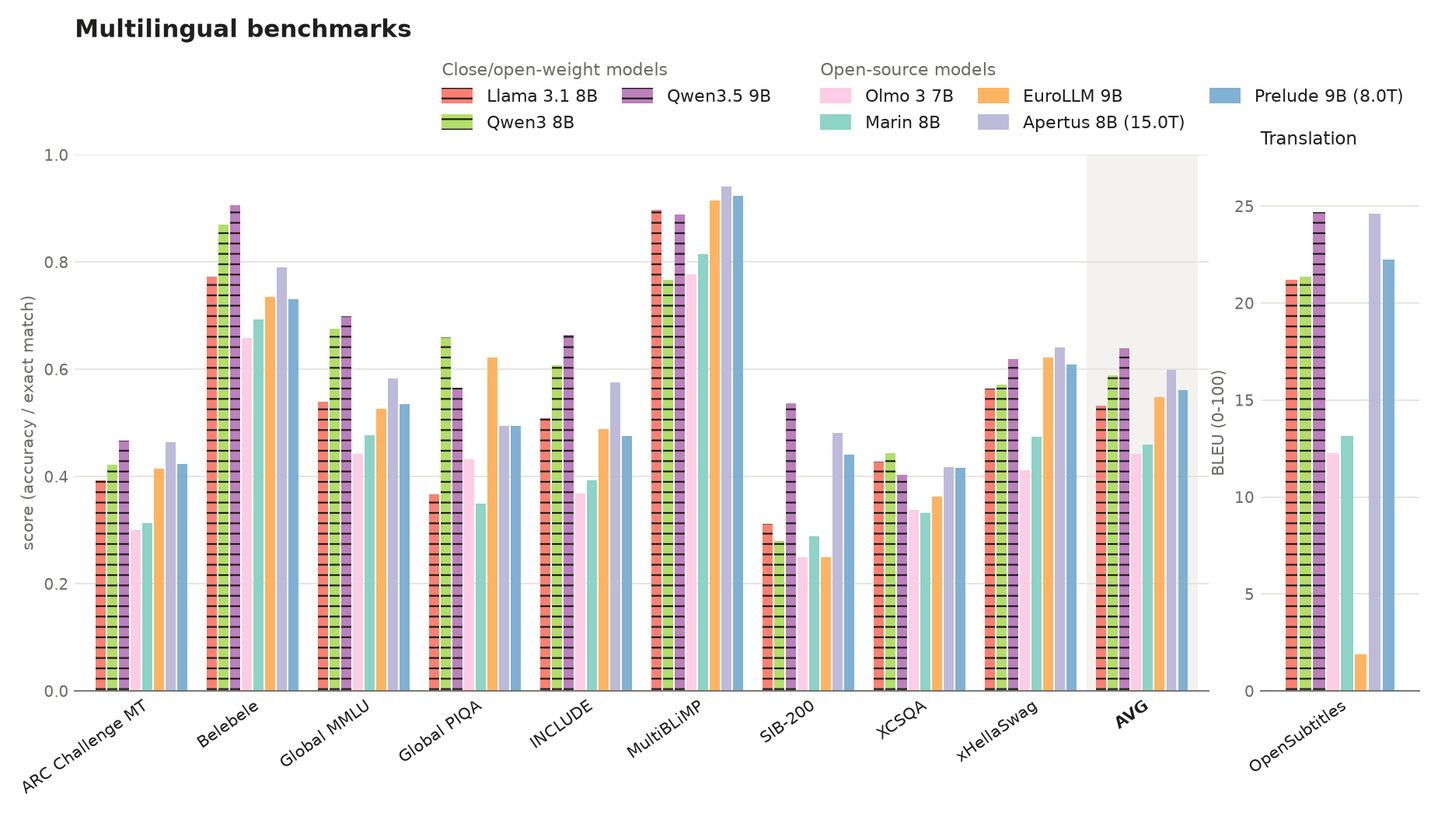
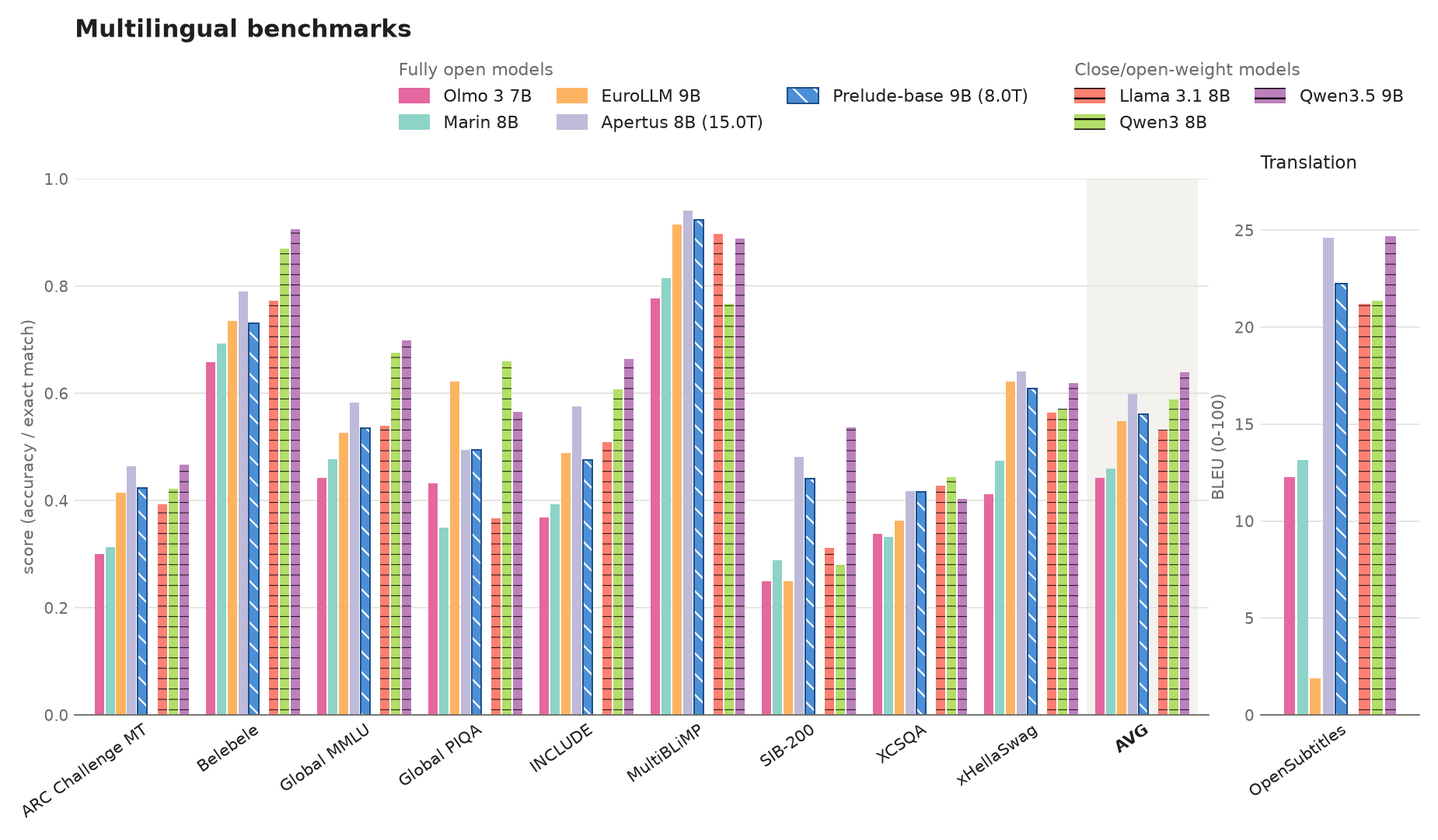
plot edit

diff --git a/prelude-evaluations-model-card/plot_results.py b/prelude-evaluations-model-card/plot_results.py
@@ -24,8 +24,9 @@ Sources (HF datasets):
                     subtask_tree, so e.g. the bigbench subtasks count once.
   Multilingual      multilingual_scores.parquet, OpenEuroLLM target languages
                     only, EXCLUDE_BENCHMARKS dropped.
-  Norwegian         noreval_scores.parquet (only Prelude + 2T anneal so far).
-                    Prompt variants (_p0.._p4) are averaged per task.
+  Norwegian         noreval_scores.parquet (LTG NorEval dashboard results),
+                    0-shot, each task's main metric (prompt variants already
+                    aggregated upstream).
 Tasks are kept only when every model of the category has them. Translation
 metrics (BLEU / chrF, 0-100) go to a separate panel and are left out of AVG.
 
@@ -172,7 +173,6 @@ TRANSLATION_METRICS = ["chrf", "chrf++", "bleu"]   # side panel, not in AVG
 # series id -> name. Rows / bars: open-weights, then fully open models (each by
 # AVG, weakest first), then Prelude.
 ENG_DEU_MODELS = {
-    "prelude": "Prelude 9B",
     "prelude_anneal2t": "Prelude 9B + 2T anneal",
     "eurollm_9B_2512": "EuroLLM 9B 2512",
     "apertus_8b": "Apertus 8B",
@@ -192,20 +192,31 @@ MULTILINGUAL_MODELS = {
     "Qwen/Qwen3.5-9B-Base": "Qwen3.5 9B",
     "meta-llama/Llama-3.1-8B": "Llama 3.1 8B",
 }
-NORWEGIAN_MODELS = {"prelude_anneal2t": "Prelude 9B + 2T anneal"}
+# NorEval covers ~80 models; the baselines are picked automatically as those
+# also used for English / German / Multilingual (see norwegian_models).
+NOREVAL_PRELUDE = {"openeurollm/prelude-base": "Prelude 9B + 2T anneal"}
+NOREVAL_SHOTS = 0
+# Shown names where they differ from the internal one (both Prelude rows are
+# "Prelude-base 9B", told apart by the tokens in the label).
+DISPLAY = {"Prelude 9B": "Prelude-base 9B",
+           "Prelude 9B + 2T anneal": "Prelude-base 9B"}
+# NorEval main metrics on a 0-1 scale; BLEU only for the translation tasks.
+# Summarisation / rewriting / truthfulqa-gen (ROUGE-L, BLEU) are dropped.
+NOREVAL_METRICS = ["acc", "f1", "em_first", "errant_f05"]
 
 # One colour per model across all plots (models never shown together share
 # one). Fill encodes openness: solid = fully open (weights + data + code),
 # black horizontal hatch over the fill = open weights only. Every Prelude
-# variant is the same blue; the anneal has a white '\\' hatch.
-# All colours from Set3; its blue is reserved for Prelude.
-PRELUDE_BLUE = "#80b1d3"
-OPEN, WEIGHTS, ANNEAL = "fully open", "open weights", "anneal"
+# variant is the same blue; the 8T (pre-anneal) one has a white '\\' hatch.
+# Baselines use Set3 colours (its blue left unused); Prelude a clearer blue.
+PRELUDE_BLUE = "#4c8fd6"
+PRELUDE_EDGE = "#1d4f8c"   # darker shade of PRELUDE_BLUE for the outline
+OPEN, WEIGHTS, INTERMEDIATE = "fully open", "open weights", "intermediate"
 STYLES = {   # name -> (colour, style)
-    "Prelude 9B": (PRELUDE_BLUE, OPEN),
-    "Prelude 9B + 2T anneal": (PRELUDE_BLUE, ANNEAL),
+    "Prelude 9B": (PRELUDE_BLUE, INTERMEDIATE),      # 8T, before the anneal
+    "Prelude 9B + 2T anneal": (PRELUDE_BLUE, OPEN),  # 10T, final
     "Apertus 8B": ("#bebada", OPEN),
-    "Olmo 3 7B": ("#fccde5", OPEN),
+    "Olmo 3 7B": ("#e5679f", OPEN),   # Olmo brand pink
     "Marin 8B": ("#8dd3c7", OPEN),
     "EuroLLM 9B": ("#fdb462", OPEN),   # Apache 2.0; counted as open (data not released)
     "EuroLLM 9B 2512": ("#fdb462", OPEN),
@@ -279,7 +290,8 @@ def finish(df: pd.DataFrame, models: dict[str, str]) -> pd.DataFrame:
     tasks every model has."""
     df = latest(df[df["series"].isin(models)])
     tok = df.groupby("series")["tokens"].first()
-    label = {s: models[s] + (f" ({tok[s] / 1e12:.1f}T)" if pd.notna(tok.get(s))
+    label = {s: DISPLAY.get(models[s], models[s])
+             + (f" ({tok[s] / 1e12:.1f}T)" if pd.notna(tok.get(s))
                              else "") for s in df["series"].unique()}
     df = df.assign(label=df["series"].map(label), name=df["series"].map(models),
                    order=df["series"].map(list(models).index))
@@ -334,12 +346,39 @@ def load_multilingual() -> pd.DataFrame:
     return finish(pd.concat([main, trans]), MULTILINGUAL_MODELS)
 
 
+def norm_name(name: str) -> str:
+    """Comparable model name: "OLMo3 7B" and "Olmo 3 7B" -> "olmo37b";
+    HF ids lose the org and a -Base / -pt suffix."""
+    name = re.sub(r"[-_](base|pt)$", "", name.split("/")[-1], flags=re.I)
+    return re.sub(r"[^a-z0-9]", "", name.lower())
+
+
+def norwegian_models(df: pd.DataFrame) -> dict[str, str]:
+    """NorEval model id -> our model name, for Prelude and every baseline of
+    the other categories that NorEval has. The HF id is matched before the
+    display name, so EuroLLM-9B-2512 maps to "EuroLLM 9B 2512" rather than
+    the original "EuroLLM 9B"."""
+    ours = [n for n in (*ENG_DEU_MODELS.values(), *MULTILINGUAL_MODELS.values())
+            if not n.startswith("Prelude")]
+    by_norm = {norm_name(n): n for n in ours}
+    models = dict(NOREVAL_PRELUDE)
+    for model, display in df[["model", "model_display_name"]].drop_duplicates().values:
+        for key in (norm_name(model), norm_name(display)):
+            if key in by_norm and model not in models:
+                models[model] = by_norm[key]
+    order = {n: i for i, n in enumerate(dict.fromkeys(
+        [*NOREVAL_PRELUDE.values(), *ours]))}
+    return dict(sorted(models.items(), key=lambda kv: order[kv[1]]))
+
+
 def load_norwegian() -> pd.DataFrame:
     df = pd.read_parquet(hf_hub_download(
         REPO_ID, "noreval_scores.parquet", repo_type="dataset"))
-    df = df[df["metric_filter"].fillna("none") == "none"]
-    # summarisation / truthfulqa-gen only report BLEU/ROUGE variants: dropped
-    main = pick_metric(df, METRIC_PREFERENCE).assign(translation=False)
+    models = norwegian_models(df)
+    print("NorEval baselines:", ", ".join(f"{m} -> {n}" for m, n in models.items()))
+    df = df[(df["metric_filter"].fillna("none") == "none")
+            & (df["num_fewshot"] == NOREVAL_SHOTS)]
+    main = pick_metric(df, NOREVAL_METRICS).assign(translation=False)
     trans = pick_metric(df[~df["task"].isin(main["task"])],
                         TRANSLATION_METRICS).assign(translation=True)
     trans = trans[trans["task"].str.contains("tatoeba|translation")]
@@ -348,8 +387,8 @@ def load_norwegian() -> pd.DataFrame:
                    checkpoint=df["step"].map(lambda s: None if pd.isna(s)
                                              else str(int(s))),
                    tokens=df["tokens_trained"],
-                   group=df["task"].str.replace(r"_p\d+$", "", regex=True))
-    return finish(df, NORWEGIAN_MODELS)
+                   group=df["task"])
+    return finish(df, models)
 
 
 # --- table and plot ----------------------------------------------------------
@@ -361,26 +400,32 @@ def scores(df: pd.DataFrame) -> tuple[pd.DataFrame, pd.DataFrame | None]:
         return d.groupby(["label", "group"])["score"].mean().unstack()
     acc = table(df[~df["translation"]])
     acc["AVG"] = acc.mean(axis=1)
-    # open-weights models, then fully open ones, each by AVG weakest first;
-    # Prelude last in model order
+    # fully open models by AVG (weakest first), then Prelude, then -- after a
+    # gap in the plots -- the open-weight models, also by AVG
     first = df.drop_duplicates("label").set_index("label")
     style = first["name"].map(lambda n: STYLES[n][1])
     prelude = first.index.str.startswith("Prelude")
     def by_avg(mask):
         return list(acc.loc[first.index[mask], "AVG"].sort_values().index)
-    labels = (by_avg(~prelude & (style == WEIGHTS))
-              + by_avg(~prelude & (style != WEIGHTS))
-              + list(first.loc[prelude, "order"].sort_values().index))
+    labels = (by_avg(~prelude & (style != WEIGHTS))
+              + list(first.loc[prelude, "order"].sort_values().index)
+              + by_avg(~prelude & (style == WEIGHTS)))
     acc = acc.reindex(labels)
     tr = df[df["translation"]]
     return acc, (table(tr).reindex(labels) if not tr.empty else None)
 
 
-def to_markdown(df: pd.DataFrame) -> str:
-    """Two decimals (one for 0-100 scores); best value of each column bold."""
+def to_markdown(df: pd.DataFrame, names: dict[str, str]) -> str:
+    """Two decimals (one for 0-100 scores); best value of each column bold.
+    A heading row opens each openness group (fully open / open weights)."""
     lines = ["| model | " + " | ".join(df.columns) + " |",
              "|---|" + "---:|" * len(df.columns)]
+    current = None
     for label, row in df.iterrows():
+        group = GROUP_TITLES[STYLES[names[label]][1] == WEIGHTS]
+        if group != current:
+            lines.append(f"| ***{group}*** |" + " |" * len(df.columns))
+            current = group
         cells = []
         for col, v in row.items():
             if pd.isna(v):
@@ -396,23 +441,31 @@ def to_markdown(df: pd.DataFrame) -> str:
 
 
 INK, MUTED, GRID, AVG_BAND = "#1f1f1e", "#6b6a64", "#e4e3dd", "#f3f2ee"
+GROUP_TITLES = {False: "Fully open models", True: "Close/open-weight models"}
+GROUP_GAP = 0.8          # extra space between the two groups, in bar widths
 LEGEND_BAND_IN = 1.0     # inches above the axes for the legends (title above)
 
 
 def bars(ax, table: pd.DataFrame, names: dict[str, str]):
-    """Grouped bars, one group per column; a hairline gap between bars. The
-    AVG group sits on a light band."""
-    n = len(table)
-    slot = 0.84 / n
+    """Grouped bars, one group per column; a hairline gap between bars, a wider
+    one between fully open and open-weight models. AVG sits on a light band."""
+    weights = [STYLES[names[l]][1] == WEIGHTS for l in table.index]
+    gap = GROUP_GAP if any(weights) and not all(weights) else 0
+    slot = 0.86 / (len(table) + gap)
     for i, (label, row) in enumerate(table.iterrows()):
-        xs = [j - 0.42 + slot * (i + 0.5) for j in range(len(table.columns))]
+        offset = slot * (i + 0.5 + (gap if weights[i] else 0))
+        xs = [j - 0.43 + offset for j in range(len(table.columns))]
         color, style = STYLES[names[label]]
         if style == WEIGHTS:
-            kw = dict(facecolor=color, edgecolor=INK, hatch="--", linewidth=0)
-        elif style == ANNEAL:   # hatch lines take the edge colour: white
+            kw = dict(facecolor=color, edgecolor="black", hatch="--", linewidth=0,
+                      hatch_linewidth=0.4)
+        elif style == INTERMEDIATE:
             kw = dict(facecolor=color, edgecolor="white", hatch="\\\\", linewidth=0)
         else:
             kw = dict(facecolor=color, linewidth=0)
+        if names[label].startswith("Prelude"):   # outline only our model
+            kw.update(edgecolor=PRELUDE_EDGE, linewidth=0.9,
+                      hatchcolor=kw.get("edgecolor", "white"))
         ax.bar(xs, row, width=slot * 0.86, label=label, zorder=2, **kw)
     if "AVG" in table.columns:
         j = list(table.columns).index("AVG")
@@ -436,16 +489,24 @@ def bars(ax, table: pd.DataFrame, names: dict[str, str]):
 
 def legend_boxes(fig, ax, names: dict[str, str], fontsize: float = 10):
     """Two legend boxes in the band above the axes, right-aligned with them,
-    two rows each: open-weight models | open-source models (Prelude included).
+    two rows each, in bar order: fully open models (Prelude included) |
+    open-weight models.
     Placed right to left in figure coordinates; an empty box is skipped.
     Returns the top of the legends in figure coordinates."""
     handles, labels = ax.get_legend_handles_labels()
     weights = [STYLES[names[l]][1] == WEIGHTS for l in labels]
-    boxes = [("Close/open-weight models", [i for i, w in enumerate(weights) if w]),
-             ("Open-source models", [i for i, w in enumerate(weights) if not w])]
+    boxes = [(GROUP_TITLES[flag], [i for i, w in enumerate(weights) if w == flag])
+             for flag in (False, True)]
     renderer = fig.canvas.get_renderer()
     pos = ax.get_position()
-    right, top = fig.axes[-1].get_position().x1, pos.y1 + 0.01
+    right, top = fig.axes[-1].get_position().x1, pos.y1
+    for a in fig.axes:          # clear panel titles such as "Translation"
+        if a.get_title(loc="left"):
+            top = max(top, a.title.get_window_extent(renderer).transformed(
+                fig.transFigure.inverted()).y1 if a.get_title() else
+                a._left_title.get_window_extent(renderer).transformed(
+                    fig.transFigure.inverted()).y1)
+    top += 0.01
     legend_top = top
     for title, idx in reversed([(t, idx) for t, idx in boxes if idx]):
         leg = fig.legend([handles[i] for i in idx], [labels[i] for i in idx],
@@ -497,17 +558,18 @@ def plot(name: str, df: pd.DataFrame, acc: pd.DataFrame,
 
 README_INTRO = """# Prelude evaluations
 
-Compares OpenEuroLLM Prelude 9B with open-source and open-weight baselines of
-similar size on English, Multilingual, German and Norwegian benchmarks; run it
-with `uv run plot_results.py`. The script downloads the scores from the HF
-datasets `openeurollm/prelude-base-eval-scores` and `ellamind/eval-scores-ref`,
-takes each model's released model (else its latest checkpoint), keeps only the
-tasks every model of a category has, and averages tasks within each benchmark
-group and then over groups (AVG, which excludes BLEU/chrF translation scores).
-It writes one bar plot per category to `figures/` and regenerates the Results
+Compares OpenEuroLLM Prelude 9B with fully open models (open weights and
+training data) and open-weight models of similar size on English,
+Multilingual, German and Norwegian benchmarks; run it with
+`uv run plot_results.py`. The script downloads the scores from the HF datasets
+`openeurollm/prelude-base-eval-scores` and `ellamind/eval-scores-ref`, takes
+each model's released model (else its latest checkpoint), keeps only the tasks
+every model of a category has, and averages tasks within each benchmark group
+and then over groups (AVG, which excludes BLEU/chrF translation scores). It
+writes one bar plot per category to `figures/` and regenerates the Results
 section below, where the best value of each column is bold and, in the plots,
-solid bars are open-source models and horizontally hatched bars open-weight
-models.
+fully open models (solid bars, Prelude last) are followed by open-weight
+models (horizontally hatched bars).
 
 """
 
@@ -549,7 +611,8 @@ def main():
         if trans is not None:
             table = table.join(trans)
         table["AVG"] = acc["AVG"]           # AVG last; excludes translation
-        md = to_markdown(table)
+        names = df.drop_duplicates("label").set_index("label")["name"].to_dict()
+        md = to_markdown(table, names)
         print(md)
         print()
         figure = f"figures/plot_results_{name.lower()}.png"

diff --git a/prelude-evaluations-model-card/README.md b/prelude-evaluations-model-card/README.md
@@ -1,20 +1,20 @@
 # Prelude evaluations
 
-Compares OpenEuroLLM Prelude 9B with open-source and open-weight baselines of
-similar size on English, Multilingual, German and Norwegian benchmarks; run it
-with `uv run plot_results.py`. The script downloads the scores from the HF
-datasets `openeurollm/prelude-base-eval-scores` and `ellamind/eval-scores-ref`,
-takes each model's released model (else its latest checkpoint), keeps only the
-tasks every model of a category has, and averages tasks within each benchmark
-group and then over groups (AVG, which excludes BLEU/chrF translation scores).
-It writes one bar plot per category to `figures/` and regenerates the Results
+Compares OpenEuroLLM Prelude 9B with fully open models (open weights and
+training data) and open-weight models of similar size on English,
+Multilingual, German and Norwegian benchmarks; run it with
+`uv run plot_results.py`. The script downloads the scores from the HF datasets
+`openeurollm/prelude-base-eval-scores` and `ellamind/eval-scores-ref`, takes
+each model's released model (else its latest checkpoint), keeps only the tasks
+every model of a category has, and averages tasks within each benchmark group
+and then over groups (AVG, which excludes BLEU/chrF translation scores). It
+writes one bar plot per category to `figures/` and regenerates the Results
 section below, where the best value of each column is bold and, in the plots,
-solid bars are open-source models and horizontally hatched bars open-weight
-models.
+fully open models (solid bars, Prelude last) are followed by open-weight
+models (horizontally hatched bars).
 
 # Results
 
-Important note: results from multilingual are not done on the final checkpoint yet as those evaluations are still pending, as such we expect performance to be improved on multilingual group.
 Automatically generated by `plot_results.py` on 2026-11-06; do not edit below this line.
 
 ## English
@@ -23,15 +23,16 @@ Automatically generated by `plot_results.py` on 2026-11-06; do not edit below th
 
 | model | AGIEval MC | Basic Skills RC | CoQA Gen | DROP Gen | DeepMind Math Gen | GSM Symbolic | Gen | Held-out | Jeopardy Gen | MMLU Humanities MC | MMLU Other MC | MMLU Pro MC | MMLU STEM MC | MMLU Social Sciences MC | Math | Minerva Math Gen | NaturalQs Gen | Non-STEM QA MC | SQuAD Gen | STEM QA MC | AVG |
 |---|---:|---:|---:|---:|---:|---:|---:|---:|---:|---:|---:|---:|---:|---:|---:|---:|---:|---:|---:|---:|---:|
-| Llama 3.1 8B (15.0T) | 0.51 | 0.89 | 0.66 | 0.49 | 0.24 | 0.36 | 0.77 | 0.30 | 0.65 | 0.70 | 0.70 | 0.37 | 0.58 | 0.75 | 0.39 | 0.19 | 0.28 | 0.78 | 0.80 | 0.74 | 0.56 |
-| Qwen3 8B (36.0T) | 0.66 | 0.94 | 0.56 | 0.55 | 0.48 | 0.69 | 0.76 | 0.35 | 0.58 | 0.78 | 0.77 | 0.50 | 0.77 | 0.85 | **0.69** | **0.51** | 0.26 | 0.86 | 0.77 | 0.81 | **0.66** |
-| Qwen3.5 9B | **0.69** | **0.95** | 0.27 | 0.57 | 0.45 | **0.71** | 0.76 | **0.42** | 0.58 | **0.82** | **0.82** | **0.57** | **0.78** | **0.87** | 0.68 | 0.49 | 0.24 | **0.88** | 0.80 | **0.84** | **0.66** |
+| ***Fully open models*** | | | | | | | | | | | | | | | | | | | | | |
 | EuroLLM 9B 2512 (4.0T) | 0.42 | 0.85 | 0.53 | 0.36 | 0.15 | 0.00 | 0.72 | 0.29 | 0.56 | 0.62 | 0.61 | 0.27 | 0.48 | 0.64 | 0.07 | 0.12 | 0.23 | 0.73 | 0.78 | 0.66 | 0.45 |
 | Apertus 8B (15.0T) | 0.48 | 0.87 | 0.72 | 0.31 | 0.19 | 0.27 | 0.76 | 0.29 | 0.64 | 0.69 | 0.68 | 0.35 | 0.54 | 0.74 | 0.31 | 0.13 | 0.27 | 0.76 | 0.81 | 0.72 | 0.53 |
 | Marin 8B | 0.54 | 0.90 | 0.72 | **0.66** | 0.21 | 0.33 | **0.78** | 0.27 | **0.66** | 0.71 | 0.71 | 0.38 | 0.59 | 0.77 | 0.44 | 0.24 | **0.36** | 0.80 | 0.86 | 0.73 | 0.58 |
 | Olmo 3 7B (6.1T) | 0.53 | 0.91 | **0.77** | 0.62 | 0.24 | 0.48 | 0.72 | 0.28 | 0.53 | 0.69 | 0.69 | 0.37 | 0.60 | 0.75 | 0.58 | 0.39 | 0.26 | 0.80 | **0.87** | 0.71 | 0.59 |
-| Prelude 9B (8.0T) | 0.44 | 0.84 | 0.71 | 0.39 | 0.17 | 0.19 | 0.73 | 0.29 | 0.58 | 0.64 | 0.63 | 0.29 | 0.48 | 0.68 | 0.24 | 0.09 | 0.23 | 0.72 | 0.77 | 0.66 | 0.49 |
-| Prelude 9B + 2T anneal (10.0T) | 0.58 | 0.94 | 0.47 | 0.52 | **0.64** | 0.60 | 0.77 | 0.33 | 0.64 | 0.75 | 0.73 | 0.45 | 0.66 | 0.80 | 0.63 | 0.43 | 0.23 | 0.81 | 0.83 | 0.75 | 0.63 |
+| Prelude-base 9B (10.0T) | 0.58 | 0.94 | 0.47 | 0.52 | **0.64** | 0.60 | 0.77 | 0.33 | 0.64 | 0.75 | 0.73 | 0.45 | 0.66 | 0.80 | 0.63 | 0.43 | 0.23 | 0.81 | 0.83 | 0.75 | 0.63 |
+| ***Close/open-weight models*** | | | | | | | | | | | | | | | | | | | | | |
+| Llama 3.1 8B (15.0T) | 0.51 | 0.89 | 0.66 | 0.49 | 0.24 | 0.36 | 0.77 | 0.30 | 0.65 | 0.70 | 0.70 | 0.37 | 0.58 | 0.75 | 0.39 | 0.19 | 0.28 | 0.78 | 0.80 | 0.74 | 0.56 |
+| Qwen3 8B (36.0T) | 0.66 | 0.94 | 0.56 | 0.55 | 0.48 | 0.69 | 0.76 | 0.35 | 0.58 | 0.78 | 0.77 | 0.50 | 0.77 | 0.85 | **0.69** | **0.51** | 0.26 | 0.86 | 0.77 | 0.81 | **0.66** |
+| Qwen3.5 9B | **0.69** | **0.95** | 0.27 | 0.57 | 0.45 | **0.71** | 0.76 | **0.42** | 0.58 | **0.82** | **0.82** | **0.57** | **0.78** | **0.87** | 0.68 | 0.49 | 0.24 | **0.88** | 0.80 | **0.84** | **0.66** |
 
 ## Multilingual
 
@@ -39,14 +40,16 @@ Automatically generated by `plot_results.py` on 2026-11-06; do not edit below th
 
 | model | ARC Challenge MT | Belebele | Global MMLU | Global PIQA | INCLUDE | MultiBLiMP | SIB-200 | XCSQA | xHellaSwag | OpenSubtitles | AVG |
 |---|---:|---:|---:|---:|---:|---:|---:|---:|---:|---:|---:|
-| Llama 3.1 8B | 0.39 | 0.77 | 0.54 | 0.37 | 0.51 | 0.90 | 0.31 | 0.43 | 0.56 | 21.2 | 0.53 |
-| Qwen3 8B | 0.42 | 0.87 | 0.68 | **0.66** | 0.61 | 0.77 | 0.28 | **0.44** | 0.57 | 21.4 | 0.59 |
-| Qwen3.5 9B | **0.47** | **0.91** | **0.70** | 0.56 | **0.66** | 0.89 | **0.54** | 0.40 | 0.62 | **24.7** | **0.64** |
+| ***Fully open models*** | | | | | | | | | | | |
 | Olmo 3 7B | 0.30 | 0.66 | 0.44 | 0.43 | 0.37 | 0.78 | 0.25 | 0.34 | 0.41 | 12.3 | 0.44 |
 | Marin 8B | 0.31 | 0.69 | 0.48 | 0.35 | 0.39 | 0.82 | 0.29 | 0.33 | 0.47 | 13.2 | 0.46 |
 | EuroLLM 9B | 0.41 | 0.74 | 0.53 | 0.62 | 0.49 | 0.92 | 0.25 | 0.36 | 0.62 | 1.9 | 0.55 |
 | Apertus 8B (15.0T) | 0.46 | 0.79 | 0.58 | 0.49 | 0.58 | **0.94** | 0.48 | 0.42 | **0.64** | 24.6 | 0.60 |
-| Prelude 9B (8.0T) | 0.42 | 0.73 | 0.53 | 0.49 | 0.48 | 0.92 | 0.44 | 0.42 | 0.61 | 22.2 | 0.56 |
+| Prelude-base 9B (8.0T) | 0.42 | 0.73 | 0.53 | 0.49 | 0.48 | 0.92 | 0.44 | 0.42 | 0.61 | 22.2 | 0.56 |
+| ***Close/open-weight models*** | | | | | | | | | | | |
+| Llama 3.1 8B | 0.39 | 0.77 | 0.54 | 0.37 | 0.51 | 0.90 | 0.31 | 0.43 | 0.56 | 21.2 | 0.53 |
+| Qwen3 8B | 0.42 | 0.87 | 0.68 | **0.66** | 0.61 | 0.77 | 0.28 | **0.44** | 0.57 | 21.4 | 0.59 |
+| Qwen3.5 9B | **0.47** | **0.91** | **0.70** | 0.56 | **0.66** | 0.89 | **0.54** | 0.40 | 0.62 | **24.7** | **0.64** |
 
 ## German
 
@@ -54,15 +57,16 @@ Automatically generated by `plot_results.py` on 2026-11-06; do not edit below th
 
 | model | AGIEval MC | CoQA Gen | GLP | GLP MC | Gen | Held-out | INCLUDE MC | MMLU Pro MC | MMMLU Non-STEM MC | MMMLU STEM MC | MMMLU Social Sciences MC | Minerva Math Gen | Non-STEM QA MC | STEM QA MC | AVG |
 |---|---:|---:|---:|---:|---:|---:|---:|---:|---:|---:|---:|---:|---:|---:|---:|
-| Llama 3.1 8B (15.0T) | 0.45 | 0.41 | 0.95 | 0.68 | 0.73 | 0.26 | 0.49 | 0.31 | 0.55 | 0.48 | 0.54 | 0.10 | 0.91 | 0.80 | 0.55 |
-| Qwen3 8B (36.0T) | 0.60 | 0.32 | 0.95 | 0.86 | 0.74 | 0.34 | **0.69** | 0.46 | 0.69 | **0.72** | 0.76 | **0.36** | 0.96 | 0.95 | 0.67 |
-| Qwen3.5 9B | **0.65** | 0.22 | **0.96** | **0.87** | 0.80 | **0.38** | 0.68 | **0.51** | **0.72** | **0.72** | **0.79** | 0.35 | **0.98** | **0.96** | **0.69** |
+| ***Fully open models*** | | | | | | | | | | | | | | | |
 | Olmo 3 7B (6.1T) | 0.42 | 0.33 | 0.89 | 0.64 | 0.53 | 0.29 | 0.51 | 0.28 | 0.48 | 0.46 | 0.48 | 0.20 | 0.79 | 0.67 | 0.50 |
 | Marin 8B | 0.45 | 0.38 | 0.91 | 0.66 | 0.62 | 0.27 | 0.49 | 0.29 | 0.51 | 0.48 | 0.50 | 0.12 | 0.89 | 0.78 | 0.53 |
 | EuroLLM 9B 2512 (4.0T) | 0.40 | 0.32 | **0.96** | 0.69 | 0.76 | 0.27 | 0.49 | 0.26 | 0.52 | 0.45 | 0.46 | 0.09 | 0.91 | 0.81 | 0.53 |
 | Apertus 8B (15.0T) | 0.46 | **0.44** | **0.96** | 0.74 | 0.80 | 0.27 | 0.56 | 0.32 | 0.59 | 0.50 | 0.57 | 0.08 | 0.94 | 0.87 | 0.58 |
-| Prelude 9B (8.0T) | 0.41 | 0.43 | 0.95 | 0.63 | 0.73 | 0.25 | 0.53 | 0.26 | 0.53 | 0.44 | 0.48 | 0.06 | 0.90 | 0.80 | 0.53 |
-| Prelude 9B + 2T anneal (10.0T) | 0.56 | 0.36 | **0.96** | 0.79 | **0.81** | 0.30 | 0.59 | 0.41 | 0.64 | 0.62 | 0.67 | 0.21 | 0.96 | 0.93 | 0.63 |
+| Prelude-base 9B (10.0T) | 0.56 | 0.36 | **0.96** | 0.79 | **0.81** | 0.30 | 0.59 | 0.41 | 0.64 | 0.62 | 0.67 | 0.21 | 0.96 | 0.93 | 0.63 |
+| ***Close/open-weight models*** | | | | | | | | | | | | | | | |
+| Llama 3.1 8B (15.0T) | 0.45 | 0.41 | 0.95 | 0.68 | 0.73 | 0.26 | 0.49 | 0.31 | 0.55 | 0.48 | 0.54 | 0.10 | 0.91 | 0.80 | 0.55 |
+| Qwen3 8B (36.0T) | 0.60 | 0.32 | 0.95 | 0.86 | 0.74 | 0.34 | **0.69** | 0.46 | 0.69 | **0.72** | 0.76 | **0.36** | 0.96 | 0.95 | 0.67 |
+| Qwen3.5 9B | **0.65** | 0.22 | **0.96** | **0.87** | 0.80 | **0.38** | 0.68 | **0.51** | **0.72** | **0.72** | **0.79** | 0.35 | **0.98** | **0.96** | **0.69** |
 
 ## Norwegian
 
@@ -70,4 +74,12 @@ Automatically generated by `plot_results.py` on 2026-11-06; do not edit below th
 
 | model | ASK GEC | MultiBLiMP SME | NCB | NRK Quiz QA NB | NRK Quiz QA NN | NoCoLA | NoReC Document | NoReC Sentence | NorBelebele | NorCommonsenseQA NB | NorCommonsenseQA NN | NorIdiom NB | NorIdiom NN | NorOpenBookQA NB | NorOpenBookQA NN | NorOpenBookQA no-fact NB | NorOpenBookQA no-fact NN | NorQuAD | NorTruthfulQA MC NB | NorTruthfulQA MC NN | SLIDE | NorSumm NB→NN | NorSumm NN→NB | Tatoeba EN→NB | Tatoeba EN→NN | Tatoeba NB→EN | Tatoeba NB→SME | Tatoeba NN→EN | Tatoeba SME→NB | AVG |
 |---|---:|---:|---:|---:|---:|---:|---:|---:|---:|---:|---:|---:|---:|---:|---:|---:|---:|---:|---:|---:|---:|---:|---:|---:|---:|---:|---:|---:|---:|---:|
-| Prelude 9B + 2T anneal (10.0T) | **0.45** | **0.71** | **0.84** | **0.56** | **0.57** | **0.88** | **0.83** | **0.74** | **0.60** | **0.72** | **0.62** | **0.26** | **0.49** | **0.80** | **0.75** | **0.70** | **0.65** | **0.51** | **0.56** | **0.63** | **0.60** | **80.4** | **75.5** | **71.5** | **64.4** | **73.1** | **8.9** | **72.2** | **17.1** | **0.64** |
+| ***Fully open models*** | | | | | | | | | | | | | | | | | | | | | | | | | | | | | | |
+| Olmo 3 7B | 0.21 | 0.64 | 0.71 | 0.41 | 0.37 | 0.72 | 0.62 | 0.48 | 0.58 | 0.39 | 0.25 | 0.05 | 0.06 | 0.61 | 0.47 | 0.39 | 0.33 | 0.48 | 0.46 | 0.53 | 0.36 | 41.5 | 46.8 | 29.0 | 10.3 | 49.2 | 0.5 | 38.5 | 1.2 | 0.43 |
+| EuroLLM 9B 2512 | **0.47** | 0.67 | 0.79 | 0.53 | 0.50 | 0.85 | 0.78 | 0.68 | 0.62 | 0.71 | 0.46 | 0.32 | 0.24 | 0.78 | 0.72 | 0.55 | 0.54 | 0.46 | 0.53 | 0.49 | 0.57 | 52.5 | 67.6 | **56.1** | 25.9 | **60.9** | 0.3 | 57.5 | 4.3 | 0.58 |
+| Apertus 8B | 0.45 | **0.75** | 0.73 | 0.54 | 0.52 | 0.85 | 0.65 | 0.61 | 0.67 | 0.67 | 0.46 | **0.37** | 0.42 | 0.81 | 0.79 | 0.59 | 0.50 | **0.65** | 0.50 | 0.49 | 0.49 | 66.5 | 72.5 | 54.3 | 43.3 | 59.6 | **2.0** | 57.7 | 13.3 | 0.60 |
+| Prelude-base 9B (10.0T) | **0.47** | 0.68 | **0.81** | 0.55 | **0.56** | **0.86** | 0.71 | **0.81** | 0.75 | 0.69 | 0.58 | 0.35 | **0.56** | 0.86 | 0.81 | 0.71 | 0.67 | 0.53 | 0.57 | 0.67 | 0.56 | **67.8** | **76.2** | 55.6 | **46.2** | 58.2 | 0.4 | **59.4** | 3.0 | 0.65 |
+| ***Close/open-weight models*** | | | | | | | | | | | | | | | | | | | | | | | | | | | | | | |
+| Llama 3.1 8B | 0.16 | 0.67 | 0.76 | 0.47 | 0.47 | 0.81 | 0.76 | 0.63 | 0.60 | 0.49 | 0.36 | 0.15 | 0.19 | 0.67 | 0.62 | 0.43 | 0.40 | 0.61 | 0.57 | 0.54 | 0.57 | 56.2 | 61.7 | 44.8 | 31.4 | 57.9 | 0.3 | 54.6 | 2.1 | 0.52 |
+| Qwen3 8B | 0.37 | 0.63 | 0.71 | 0.52 | 0.49 | 0.68 | 0.88 | 0.72 | 0.85 | 0.72 | 0.51 | 0.11 | 0.10 | **0.90** | 0.81 | 0.76 | 0.72 | 0.61 | **0.62** | 0.70 | **0.73** | 51.9 | 68.8 | 44.4 | 22.8 | 56.0 | 0.4 | 51.6 | 2.6 | 0.63 |
+| Qwen3.5 9B | 0.36 | 0.69 | 0.78 | **0.56** | 0.53 | 0.80 | **0.90** | 0.61 | **0.86** | **0.75** | **0.60** | 0.24 | 0.24 | 0.89 | **0.87** | **0.81** | **0.76** | 0.51 | 0.59 | **0.81** | 0.64 | 63.6 | 71.3 | 50.7 | 35.5 | 60.2 | 0.7 | 56.5 | **14.6** | **0.66** |
